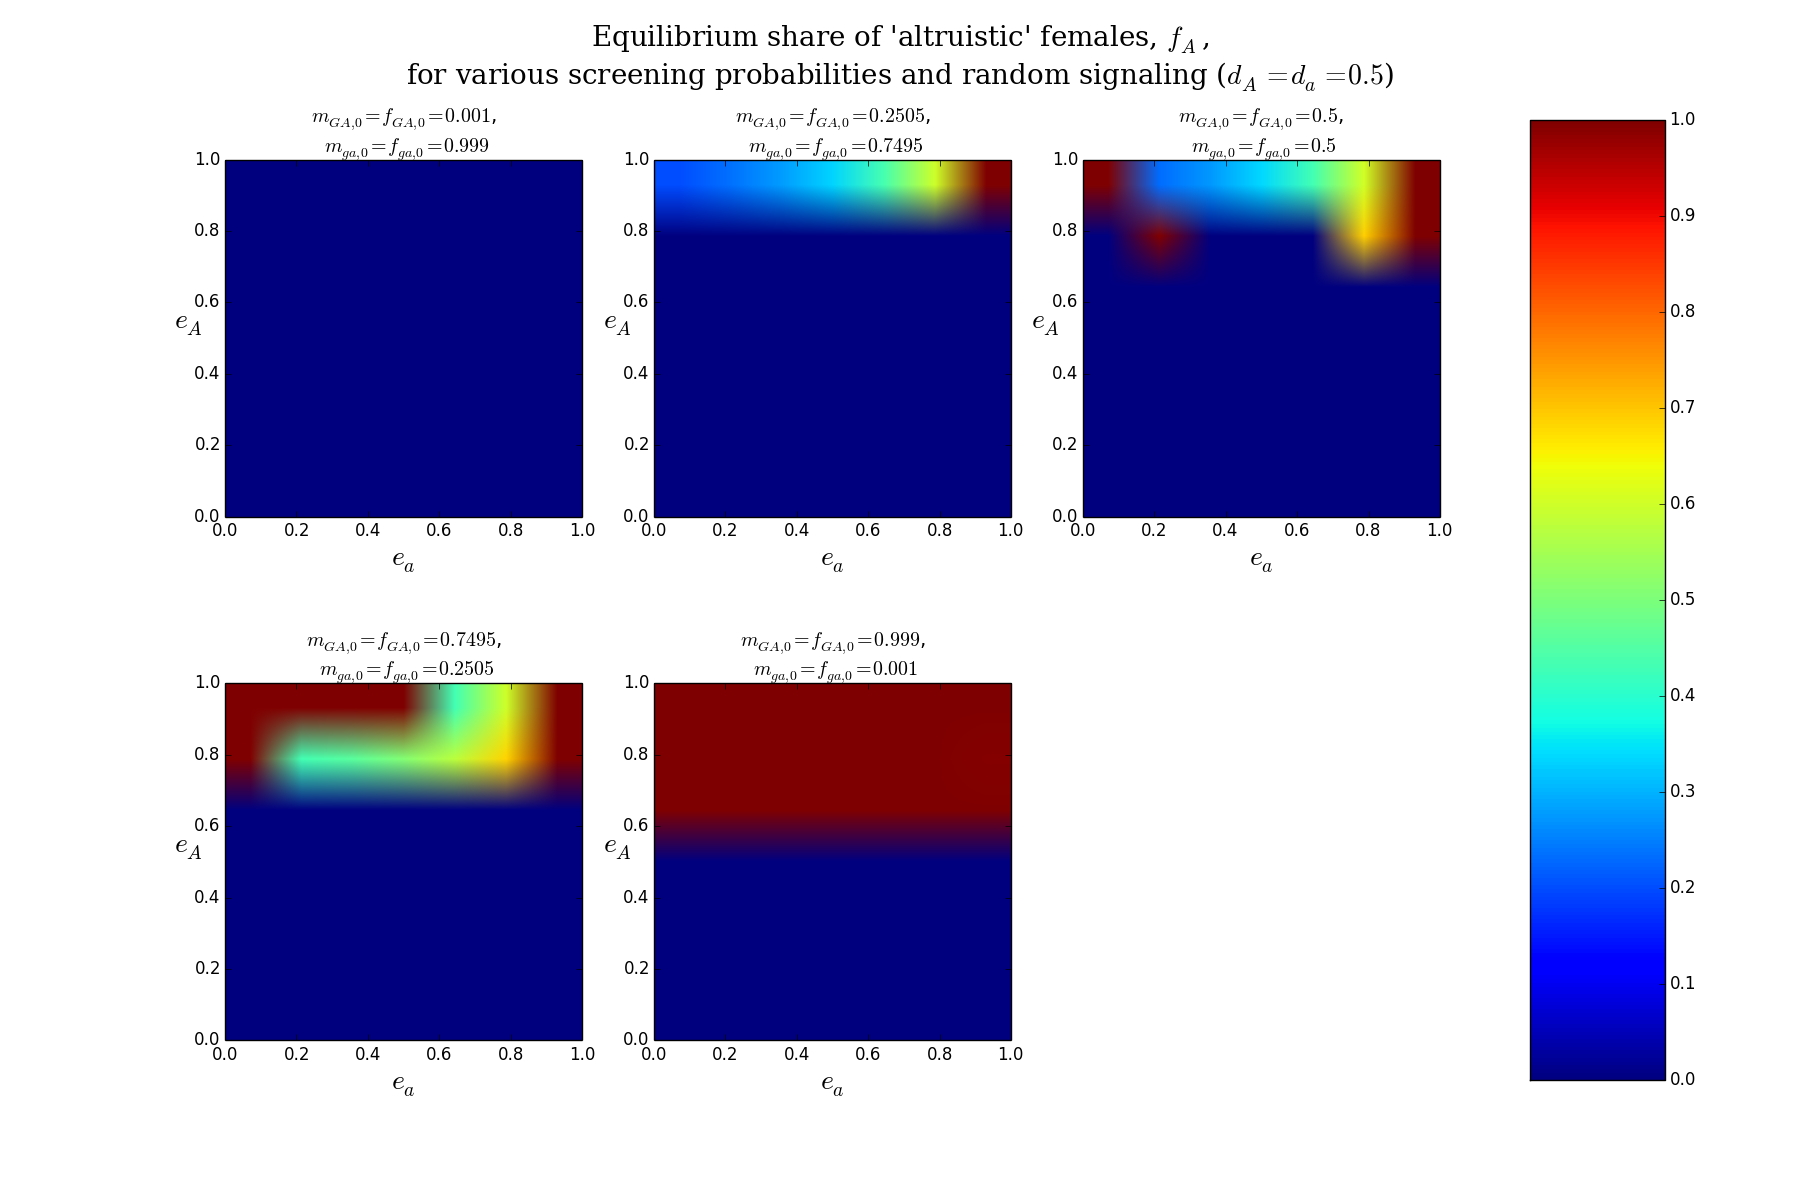
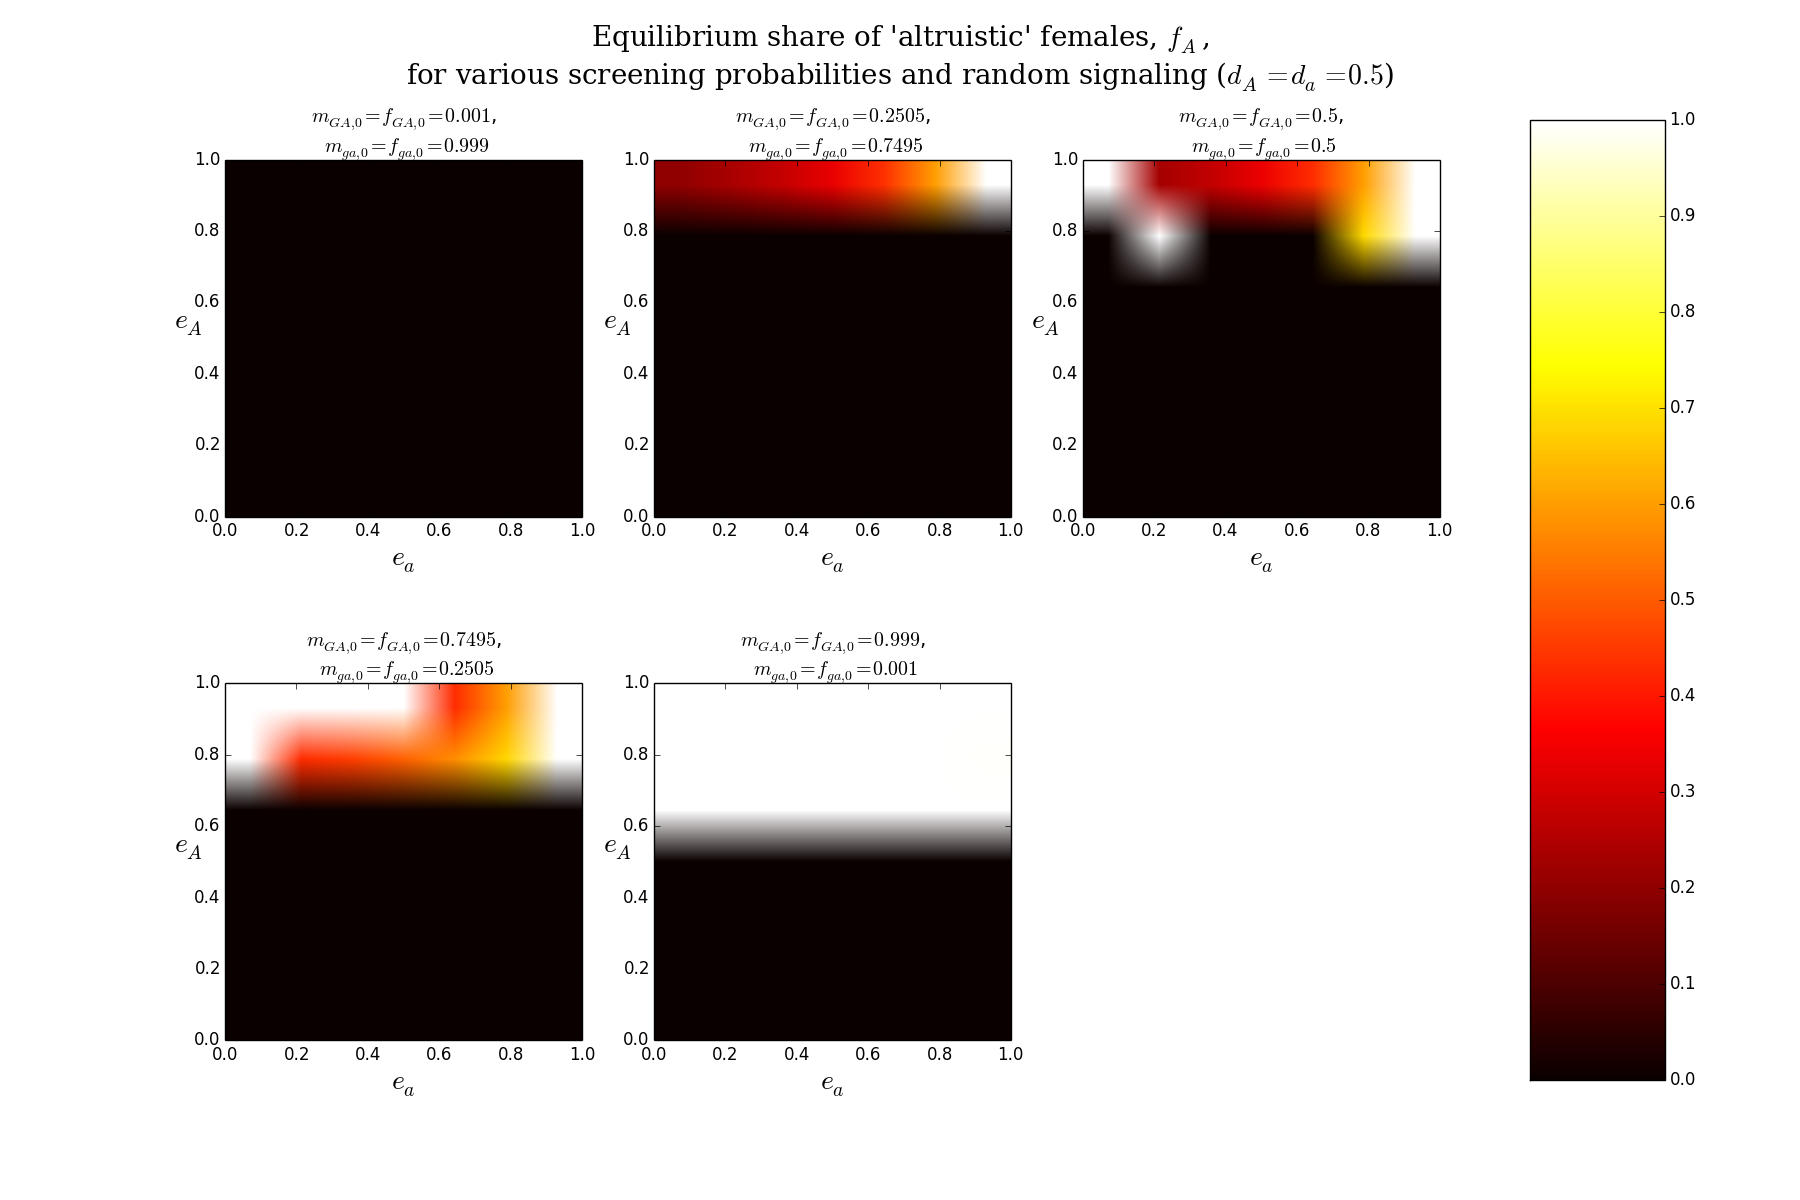
Added ability to toggle between color maps for the contour plots.

diff --git a/examples/parameter-sweeps/screening_param_sweep_plots.py b/examples/parameter-sweeps/screening_param_sweep_plots.py
@@ -1,14 +1,17 @@
+import matplotlib as mpl
 import matplotlib.pyplot as plt
 import numpy as np
 
 import parameter_sweep
-reload(parameter_sweep)
 
 # load the results file
 results = np.load("parameter_sweep.npy")
 
 initial_conditions = parameter_sweep.initial_conditions
 signaling_probs = parameter_sweep.signaling_probs
+
+# define the desired color map
+cmap = mpl.cm.hot
 
 ### various screening probabilities and useless signaling
 fig = plt.figure(figsize=(18, 12))
@@ -21,7 +24,7 @@ for i, initial_condition in enumerate(initial_conditions):
     # plot the equilibrium proportion of female altruists
     ax = fig.add_subplot(2, 3, i+1)
     mappable = ax.imshow(female_altruists, extent=[0, 1, 0, 1], origin='lower',
-                         vmin=0, vmax=1)
+                         vmin=0, vmax=1, cmap=cmap)
     ax.set_xlabel('$e_a$', fontsize=20)
     ax.set_ylabel('$e_A$', fontsize=20, rotation='horizontal')
 
@@ -55,7 +58,7 @@ for i, initial_condition in enumerate(initial_conditions):
     # plot the equilibrium proportion of female altruists
     ax = fig.add_subplot(2, 3, i+1)
     mappable = ax.imshow(female_altruists, extent=[0, 1, 0, 1], origin='lower',
-                         vmin=0, vmax=1)
+                         vmin=0, vmax=1, cmap=cmap)
     ax.set_xlabel('$e_a$', fontsize=20)
     ax.set_ylabel('$e_A$', fontsize=20, rotation='horizontal')
 
@@ -90,7 +93,7 @@ for i, initial_condition in enumerate(initial_conditions):
     # plot the equilibrium proportion of female altruists
     ax = fig.add_subplot(2, 3, i+1)
     mappable = ax.imshow(female_altruists, extent=[0, 1, 0, 1], origin='lower',
-                         vmin=0, vmax=1)
+                         vmin=0, vmax=1, cmap=cmap)
     ax.set_xlabel('$e_a$', fontsize=20)
     ax.set_ylabel('$e_A$', fontsize=20, rotation='horizontal')
 
@@ -124,7 +127,7 @@ for i, initial_condition in enumerate(initial_conditions):
     # plot the equilibrium proportion of female altruists
     ax = fig.add_subplot(2, 3, i+1)
     mappable = ax.imshow(female_altruists, extent=[0, 1, 0, 1], origin='lower',
-                         vmin=0, vmax=1)
+                         vmin=0, vmax=1, cmap=cmap)
     ax.set_xlabel('$e_a$', fontsize=20)
     ax.set_ylabel('$e_A$', fontsize=20, rotation='horizontal')
 
@@ -158,7 +161,7 @@ for i, initial_condition in enumerate(initial_conditions):
     # plot the equilibrium proportion of female altruists
     ax = fig.add_subplot(2, 3, i+1)
     mappable = ax.imshow(female_altruists, extent=[0, 1, 0, 1], origin='lower',
-                         vmin=0, vmax=1)
+                         vmin=0, vmax=1, cmap=cmap)
     ax.set_xlabel('$e_a$', fontsize=20)
     ax.set_ylabel('$e_A$', fontsize=20, rotation='horizontal')
 
@@ -192,7 +195,7 @@ for i, initial_condition in enumerate(initial_conditions):
     # plot the equilibrium proportion of female altruists
     ax = fig.add_subplot(2, 3, i+1)
     mappable = ax.imshow(female_altruists, extent=[0, 1, 0, 1], origin='lower',
-                         vmin=0, vmax=1)
+                         vmin=0, vmax=1, cmap=cmap)
     ax.set_xlabel('$e_a$', fontsize=20)
     ax.set_ylabel('$e_A$', fontsize=20, rotation='horizontal')
 
@@ -227,7 +230,7 @@ for i, initial_condition in enumerate(initial_conditions):
     # plot the equilibrium proportion of female altruists
     ax = fig.add_subplot(2, 3, i+1)
     mappable = ax.imshow(female_altruists, extent=[0, 1, 0, 1], origin='lower',
-                         vmin=0, vmax=1)
+                         vmin=0, vmax=1, cmap=cmap)
     ax.set_xlabel('$e_a$', fontsize=20)
     ax.set_ylabel('$e_A$', fontsize=20, rotation='horizontal')
 

diff --git a/examples/parameter-sweeps/signaling_param_sweep_plots.py b/examples/parameter-sweeps/signaling_param_sweep_plots.py
@@ -1,3 +1,4 @@
+import matplotlib as mpl
 import matplotlib.pyplot as plt
 import numpy as np
 
@@ -10,6 +11,9 @@ results = np.load("parameter_sweep.npy")
 initial_conditions = parameter_sweep.initial_conditions
 screening_probs = parameter_sweep.screening_probs
 
+# define the desired color map
+cmap = mpl.cm.hot
+
 ### various signaling probabilities and useless screening
 fig = plt.figure(figsize=(18, 12))
 
@@ -21,7 +25,7 @@ for i, initial_condition in enumerate(initial_conditions):
     # plot the equilibrium proportion of female altruists
     ax = fig.add_subplot(2, 3, i+1)
     mappable = ax.imshow(female_altruists, extent=[0, 1, 0, 1], origin='lower',
-                         vmin=0, vmax=1)
+                         vmin=0, vmax=1, cmap=cmap)
     ax.set_xlabel('$d_a$', fontsize=20)
     ax.set_ylabel('$d_A$', fontsize=20, rotation='horizontal')
 
@@ -55,7 +59,7 @@ for i, initial_condition in enumerate(initial_conditions):
     # plot the equilibrium proportion of female altruists
     ax = fig.add_subplot(2, 3, i+1)
     mappable = ax.imshow(female_altruists, extent=[0, 1, 0, 1], origin='lower',
-                         vmin=0, vmax=1)
+                         vmin=0, vmax=1, cmap=cmap)
     ax.set_xlabel('$d_a$', fontsize=20)
     ax.set_ylabel('$d_A$', fontsize=20, rotation='horizontal')
 
@@ -90,7 +94,7 @@ for i, initial_condition in enumerate(initial_conditions):
     # plot the equilibrium proportion of female altruists
     ax = fig.add_subplot(2, 3, i+1)
     mappable = ax.imshow(female_altruists, extent=[0, 1, 0, 1], origin='lower',
-                         vmin=0, vmax=1)
+                         vmin=0, vmax=1, cmap=cmap)
     ax.set_xlabel('$d_a$', fontsize=20)
     ax.set_ylabel('$d_A$', fontsize=20, rotation='horizontal')
 
@@ -124,7 +128,7 @@ for i, initial_condition in enumerate(initial_conditions):
     # plot the equilibrium proportion of female altruists
     ax = fig.add_subplot(2, 3, i+1)
     mappable = ax.imshow(female_altruists, extent=[0, 1, 0, 1], origin='lower',
-                         vmin=0, vmax=1)
+                         vmin=0, vmax=1, cmap=cmap)
     ax.set_xlabel('$d_a$', fontsize=20)
     ax.set_ylabel('$d_A$', fontsize=20, rotation='horizontal')
 
@@ -158,7 +162,7 @@ for i, initial_condition in enumerate(initial_conditions):
     # plot the equilibrium proportion of female altruists
     ax = fig.add_subplot(2, 3, i+1)
     mappable = ax.imshow(female_altruists, extent=[0, 1, 0, 1], origin='lower',
-                         vmin=0, vmax=1)
+                         vmin=0, vmax=1, cmap=cmap)
     ax.set_xlabel('$d_a$', fontsize=20)
     ax.set_ylabel('$d_A$', fontsize=20, rotation='horizontal')
 
@@ -192,7 +196,7 @@ for i, initial_condition in enumerate(initial_conditions):
     # plot the equilibrium proportion of female altruists
     ax = fig.add_subplot(2, 3, i+1)
     mappable = ax.imshow(female_altruists, extent=[0, 1, 0, 1], origin='lower',
-                         vmin=0, vmax=1)
+                         vmin=0, vmax=1, cmap=cmap)
     ax.set_xlabel('$d_a$', fontsize=20)
     ax.set_ylabel('$d_A$', fontsize=20, rotation='horizontal')
 
@@ -227,7 +231,7 @@ for i, initial_condition in enumerate(initial_conditions):
     # plot the equilibrium proportion of female altruists
     ax = fig.add_subplot(2, 3, i+1)
     mappable = ax.imshow(female_altruists, extent=[0, 1, 0, 1], origin='lower',
-                         vmin=0, vmax=1)
+                         vmin=0, vmax=1, cmap=cmap)
     ax.set_xlabel('$d_a$', fontsize=20)
     ax.set_ylabel('$d_A$', fontsize=20, rotation='horizontal')
 
